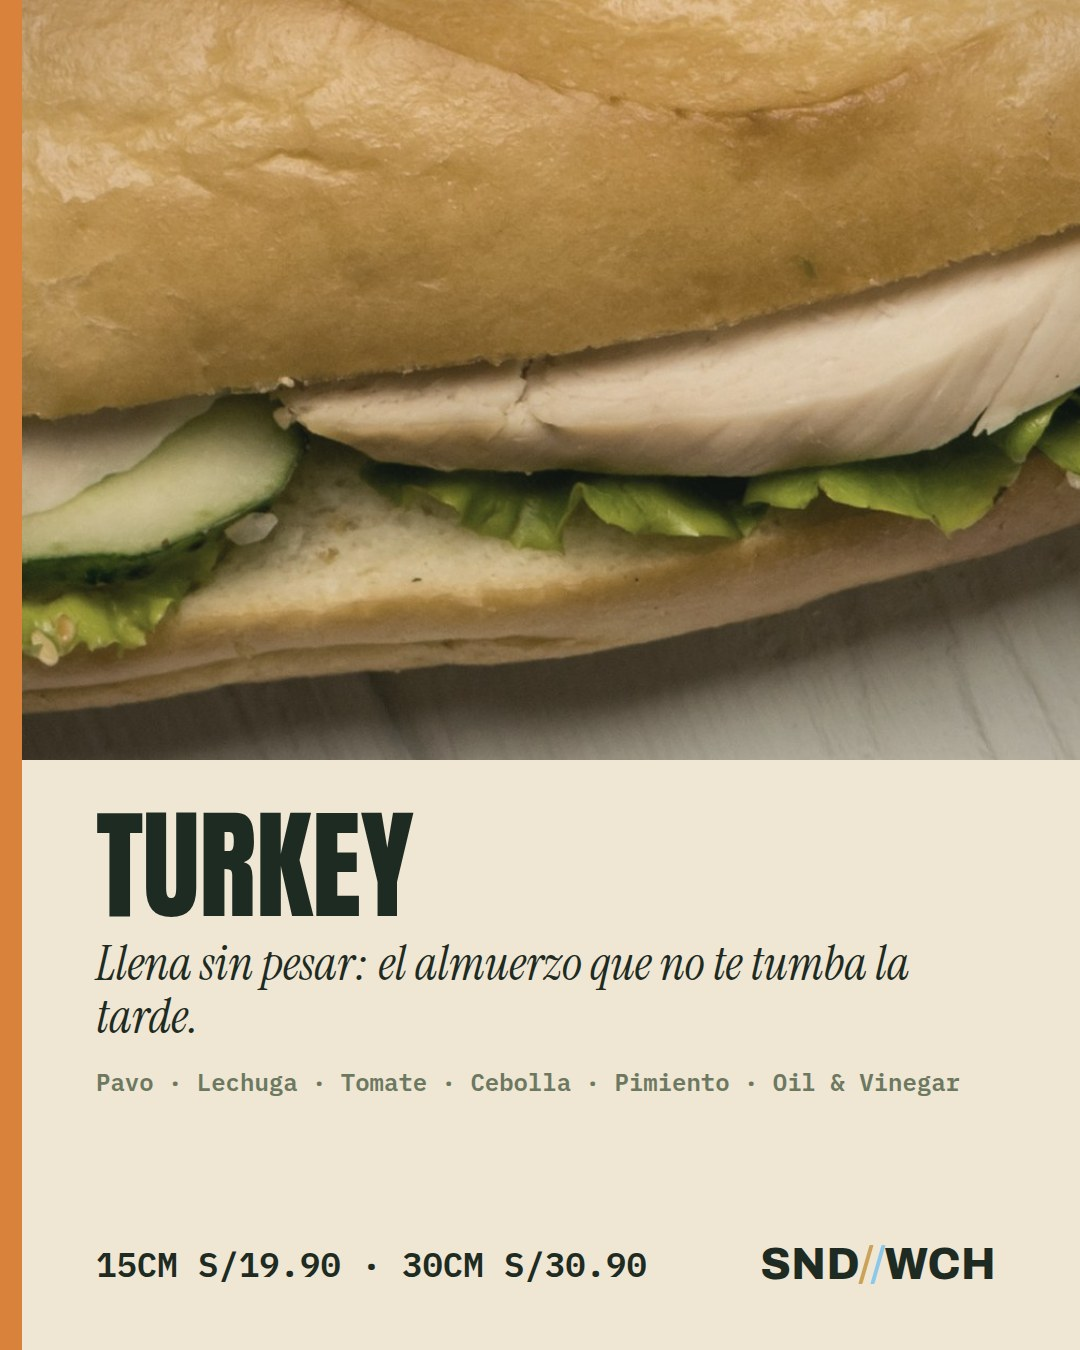
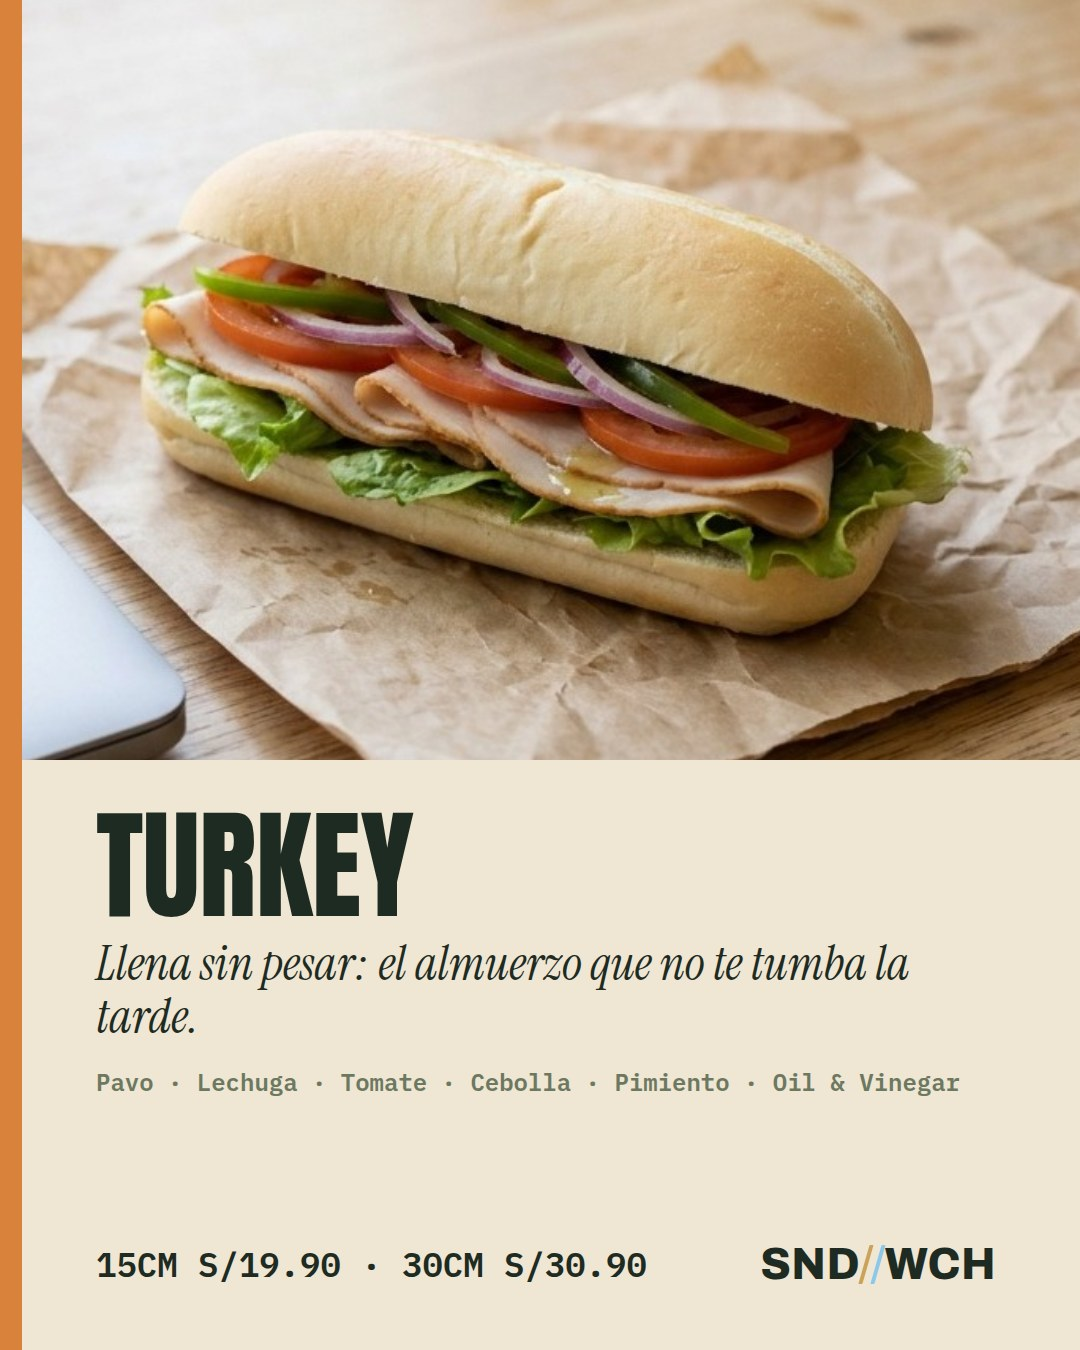
Lanzamiento con el Turkey fiel y la proyección del precio, mes a mes
La carta y la lámina del Turkey usan la foto generada fiel a la receta (la de
la app muestra pepino). La proyección del precio nuevo se lee como suma de 6
meses en el escenario conservador, no como el primer mes: queda el cuadro
mes a mes, con +10% y +22.5% de clientes.

Claude-Session: https://claude.ai/code/session_01NCVgixMFGDjTdiWThGTz7g

diff --git a/docs/PROYECCION.md b/docs/PROYECCION.md
@@ -269,9 +269,29 @@ controlada, Rappi trabajado, PedidosYa antes, sin Meta el primer mes, bolsa lisa
 
 ## Precio nuevo: 15CM S/19.90 (2026-10-16)
 
-El dueño aprobó 15CM S/19.90 y 30CM S/30.90 tras el estudio de mercado (`docs/MERCADO.md`). El
-modelo no mueve los pedidos con el precio (no hay datos de Trujillo para eso), así que muestra
-solo lo que cuesta: **un pedido deja S/12.56 en vez de S/15.39** (ticket S/23.27 en vez de
-S/26.18), y en el escenario de hoy los 6 meses pasan de S/853 a −S/13 (mediana; −S/1,071 a
-S/1,157). Para quedar igual hacen falta ~21% más pedidos (`docs/PRECIOS.md` §4). Es la apuesta: el
-precio a la par de las mejores sangucherías tiene que traer esos pedidos. Se mide la primera semana.
+El dueño aprobó 15CM S/19.90 y 30CM S/30.90 tras el estudio de mercado (`docs/MERCADO.md`). Un
+pedido deja **S/12.56 en vez de S/15.39** (ticket S/23.27 en vez de S/26.18).
+
+**Ojo al leerlo** (el dueño lo leyó como «el primer mes gano 13 soles en vez de 800»): S/853 y
+−S/13 son la **suma de los 6 meses** (octubre a marzo) en el escenario «HOY», el más conservador:
+1 a 3 pedidos al día. No es el primer mes ni el escenario de la meta. Mes a mes (mediana):
+
+| mes | precio de antes | precio nuevo, mismos pedidos | precio nuevo, +10% clientes | precio nuevo, +22.5% clientes |
+|---|---|---|---|---|
+| oct (desde el 20) | −397 | −422 | −414 | −405 |
+| nov | −252 | −375 | −326 | −263 |
+| dic | +265 | +107 | +171 | +252 |
+| ene | +377 | +196 | +270 | +363 |
+| feb | +359 | +183 | +256 | +348 |
+| mar | +504 | +301 | +387 | +494 |
+| **6 meses** | **+853** | **−13** | **+342** | **+787** |
+
+- **Mismos pedidos**: el modelo no mueve los pedidos con el precio. Con ~2.8 pedidos al día cada
+  uno deja S/2.83 menos: entre S/120 y S/200 menos al mes.
+- **+10% clientes**: lo que predice la evidencia (elasticidad −0.81, Andreyeva 2010; −12% de precio).
+- **+22.5% clientes**: lo que hace falta para quedar igual (S/15.39 ÷ S/12.56).
+
+Lo que decide el resultado en este escenario no es el precio, es que hay muy pocos pedidos: con 1–3
+al día ningún precio llega a la meta (`docs/META_6000.md`). El precio nuevo es una apuesta a que la
+tarjeta a S/19.90 convierta más; se mide en las dos primeras semanas (pedidos nuevos por día contra
+este cuadro) y, si no sube, el precio se puede volver a cambiar con una migración.

diff --git a/docs/DECISIONES.md b/docs/DECISIONES.md
@@ -1309,8 +1309,9 @@ que cancelar un pedido viejo devuelve lo mismo que reservó. Prueba: `tests-api/
   se vea) y, sobre el +10% de las apps: «sí, todos en sí cobran más en Rappi y PedidosYa que en sus
   locales».
 - **Lo que cuesta**: con la misma cantidad de pedidos, cada pedido deja ~S/2.80 menos
-  (`modelo/proyeccion.py`). El precio se paga solo si trae ~21% más pedidos (`docs/PRECIOS.md` §4).
-  Se mide con la primera semana y con el mes 1 de Rappi.
+  (`modelo/proyeccion.py`): en el escenario conservador (1–3 pedidos al día), la suma de los 6
+  meses pasa de S/853 a −S/13, entre S/120 y S/200 menos al mes (el cuadro mes a mes está en
+  `docs/PROYECCION.md`). Con +22.5% de clientes queda igual. Se mide las dos primeras semanas.
 - **El 30CM pasa el techo de costo del 45% en tres** (Italian Hoagie y pavo 30CM 49.0%, atún del
   armador 30CM 45.7%). Se le dio a elegir entre subirlo a S/33.90, volver al de antes o dejarlo;
   respondió «C»: queda en S/30.90 con la excepción anotada en `TECHO_EXCEPCIONES`

diff --git a/docs/marketing/anuncios/README.md b/docs/marketing/anuncios/README.md
@@ -63,3 +63,7 @@ laptop y la botella. Pedida así:
 tercios, en tres cuartos). La segunda variante no salió: se acabaron los créditos de IA de Figma del
 día (vuelven a las 00:00 UTC). Se pide otra más cerca apenas vuelvan.
 
+
+`fotos/foto-turkey-v3-cerca.jpg` es la v3 recortada más cerca del sándwich (sin generar nada
+nuevo). La usa el lanzamiento de Instagram (la carta y la lámina del Turkey) en vez de
+`img/sig10.jpg`, que muestra pepino (dueño, 2026-10-16: «Sí, foto fiel»).
